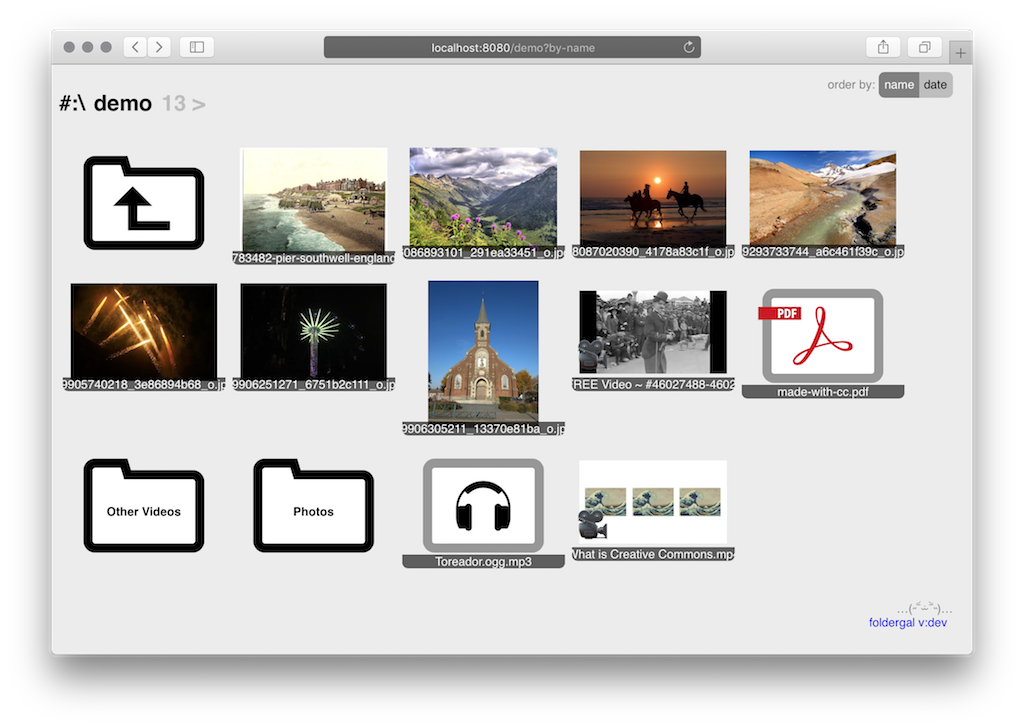
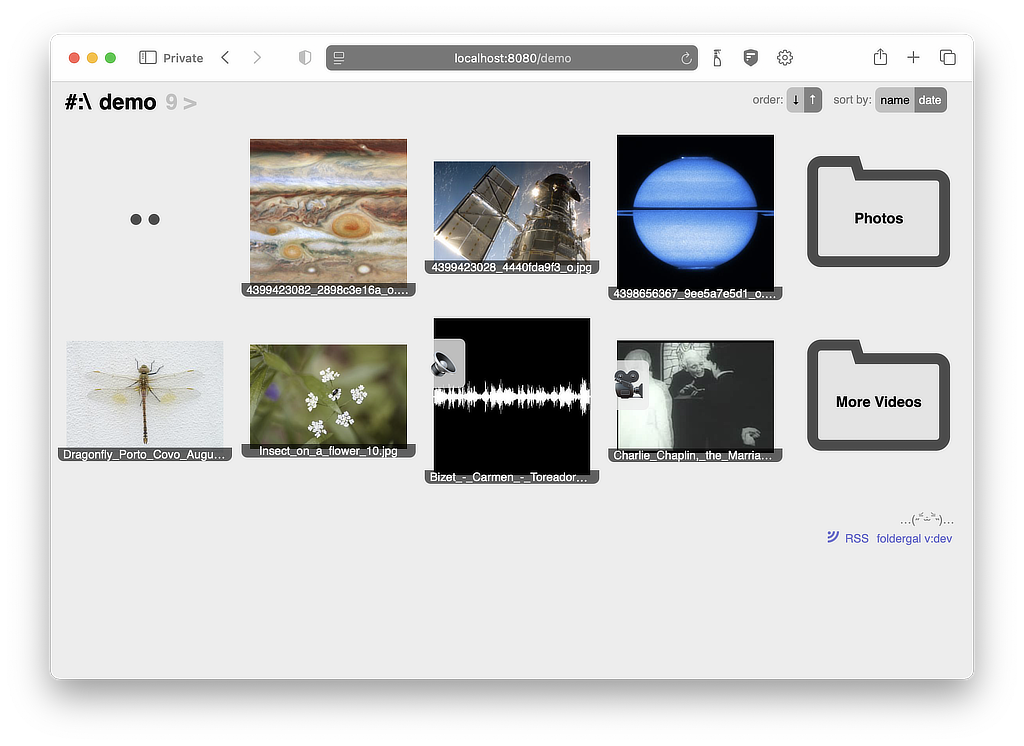
Improve README
Update dependencies.
Cleanup Makefile.
Update demo screenshot.

diff --git a/README.md b/README.md
@@ -3,31 +3,38 @@ Web Gallery from a Folder
 
 A web server that displays folders of images, video and audio.
 
-Simple browsing of media files as web pages. Read only - no editing or uploading.
-Limited only to the folder you want.
 
-Produces a standalone executable. The only optional external 
-dependency is `ffmpeg` for video thumbnails.
+Features
+---
 
-Optional support for TLS and http2.
-
-Javascript is not needed to browse the web gallery. 
-However some javascript is used when the overlay media on page feature is on.
-
-Can work even on openwrt routers. But thumbnail generation is very slow there.
-
-Has RSS/atom feed.
-
-Optional Discord webhook for new uploads.
+* __Limited scope__ - serves only media files from one folder 
+  (images, audio, video and PDFs)
+* __No editing__, no uploading - everything is read only
+* __Usable with HTTP only__ - all javascript is optional
+* __Portable__ - a single executable to run for a single website, available for 
+  all major systems
+* __Thumbnail generation__ - a frame from video files and full waveform for audio
+  (requires ffmpeg installed)
+* __Simple look__ - with light & dark theme support based on browser preferences
+* __Content sorting__ - by file date or name
+* __Shortcuts__ for navigation - (when using client JS) next/previous with keyboard 
+  and touch swipe
+* __RSS/atom feed__
+* __Discord web-hook__ - notifications for new uploads
+* __Cache in memory__ - (optional) to avoid reading from disk 
+  when peaks in traffic happen
+* Optional __TLS and http2__ - can be to exposed directly to the world
+  as well as working behind a proxy server
 
 ![](screenshot.png "Foldergal Screenshot")
+
 
 Usage
 ---
 
 TLDR;
-1. Run in terminal something like
-   `./foldergal-binary --root /path/to/serve/files/from --home /tmp/foldergal`
+1. Run in terminal
+   `./foldergal --root /path/to/serve/files/from --home /tmp/foldergal`
 2. Visit http://localhost:8080
 
 ### Configuration
@@ -72,53 +79,41 @@ They will override the env variables.
   * `foldergal.log`
   * `_foldergal_cache/` (created automatically)
   
-You can put config.json and tls certificates there but you will still have 
+You can put config.json and TLS certificates there but you will still have 
 to point the executable to them.
+
 
 Limitations and known issues
 ---
 
-Privacy warning: all media is served as is, to the byte. 
+Privacy notice: all media files are served directly. 
 This means that no EXIF or other metadata is removed from your files.
 
 Http2 works only with TLS, which works only if you provide certificate files.
 
-You should clean the "home" folder manually after using the application.
-The thumnail cache and the log file remain on your disk.
+The application writes thumbnails and log in the "home" folder. 
+You should clean it manually if needed.
 
-In the rare case that you shared a folder from one volume (windows drive) and
-later shared a folder with the same name but from different volume
+In the rare case that you used a folder from one mounted volume (windows drive) 
+and later used a folder with the same name but from different volume
 you might see some erroneous thumbnails.
 
 If you see an error stating "too many open files" you should set a larger 
-file descriptor limit. Like running `ulimit -n 100000` in the current terminal.
+file descriptor limit. Like running `ulimit -n 100000`.
 
 
 Developer notes
 ---
 
-1. `go generate`
-1. `go build`
-1. ... run
+Just run with `go run ./cmd/foldergal/main.go`
 
-Use the [Makefile]().
+Use the [Makefile](Makefile).
 
-Foldergal uses go modules.
 
-Tested with go version 1.15.
-
-When building use these flags to set the build time and version:
-```
-go build -ldflags="-X 'main.BuildTimestamp=TIME' -X 'main.BuildVersion=VERSION'"
-```
-Where TIME must be an RFC3339 string.
-
-Package fsnotify requires `go get -u golang.org/x/sys/...`
-
-Setting up service on Freebsd
+Setting up as a service on FreeBSD
 ---
 
-1. copy somewehere the executable e.g. `/usr/local/bin/foldergal`
+1. copy the executable somewhere e.g. `/usr/local/bin/foldergal`
 1. create a user to run the service e.g. `foldergaluser`
 1. create the folder `/var/run/foldergal` and make the service user it's owner
 1. create a file `/usr/local/etc/rc.d/foldergal` make sure it is executable
@@ -128,10 +123,6 @@ Setting up service on Freebsd
 1. `service foldergal start`
 1. you can check the logs in `FOLDERGAL_HOME` foldergal.log
 
-Important: in order for file type detection to work you will need to have 
-`/etc/mime-types` which freebsd does not have. 
-One solution is to install apache and symlink to it's mime.types.
-Ugly, yes, but foldergal will not see your videos otherwise.
 
 Service on Debian
 --
@@ -144,7 +135,8 @@ After `sudo systemctl daemon-reload` you can `sudo service foldergal start`.
 
 To enable auto-start: `sudo systemctl enable foldergal`
 
-TODO
+
+TODO List
 ---
 
 * [x] Generate audio file thumbnails 
@@ -154,7 +146,7 @@ TODO
 * [x] Add dark theme support
 * [x] Rewrite embedded files using the `go:embed` directive available in go 1.16
 * [x] Fix consistency of sort flags
-* [/] Combine svg icons in a single file and `<use>` sprites 
+* [/] Combine SVG icons in a single file and `<use>` sprites 
 * [ ] Generate pdf thumbnails (imagemagick?)
 * [ ] 100% test coverage
 * [ ] Add fuzz tests  
@@ -162,15 +154,17 @@ TODO
 * [ ] (maybe) Implement README.md parsing in folders (using https://github.com/yuin/goldmark)
 * [ ] (maybe) Dynamic folder icons generated from the full folder path
 * [ ] (maybe) Rework http server startup https://bojanz.github.io/increasing-http-server-boilerplate-go/
-* [ ] Fix misterious date bug 0001-01-01 on freebsd
-* [ ] Use context derived from http, Rewrite HTTP handlers using middleware e.g.  
-  <https://eli.thegreenplace.net/2021/life-of-an-http-request-in-a-go-server/>
-* [ ] (maybe) Use webauthn for authentication  
-  <https://github.com/duo-labs/webauthn>
+* [ ] Fix mysterious date bug 0001-01-01 on freebsd
 * [ ] Make sure thumbnail generation uses correct resizing
   <https://zuru.tech/blog/the-dangers-behind-image-resizing>
 * [ ] Implement Adaptive Video (Multi Bitrate HLS)  
   Serve pre-generated bundles of video files. 
   Provide JS fallback for browsers not supporting HLS.
+  - <https://github.com/bluenviron/gohlslib>
   - <https://medium.com/@peer5/creating-a-production-ready-multi-bitrate-hls-vod-stream-dff1e2f1612c>
   - fallback script <https://github.com/video-dev/hls.js>
+* [ ] Use session without client javascript (JWT HttpOnly)
+* [ ] (maybe) Use webauthn for authentication  
+  <https://github.com/duo-labs/webauthn>
+* [ ] Introduce folder metadata files
+* [ ] Password protected folders (described in folder metadata and authenticated in session)
